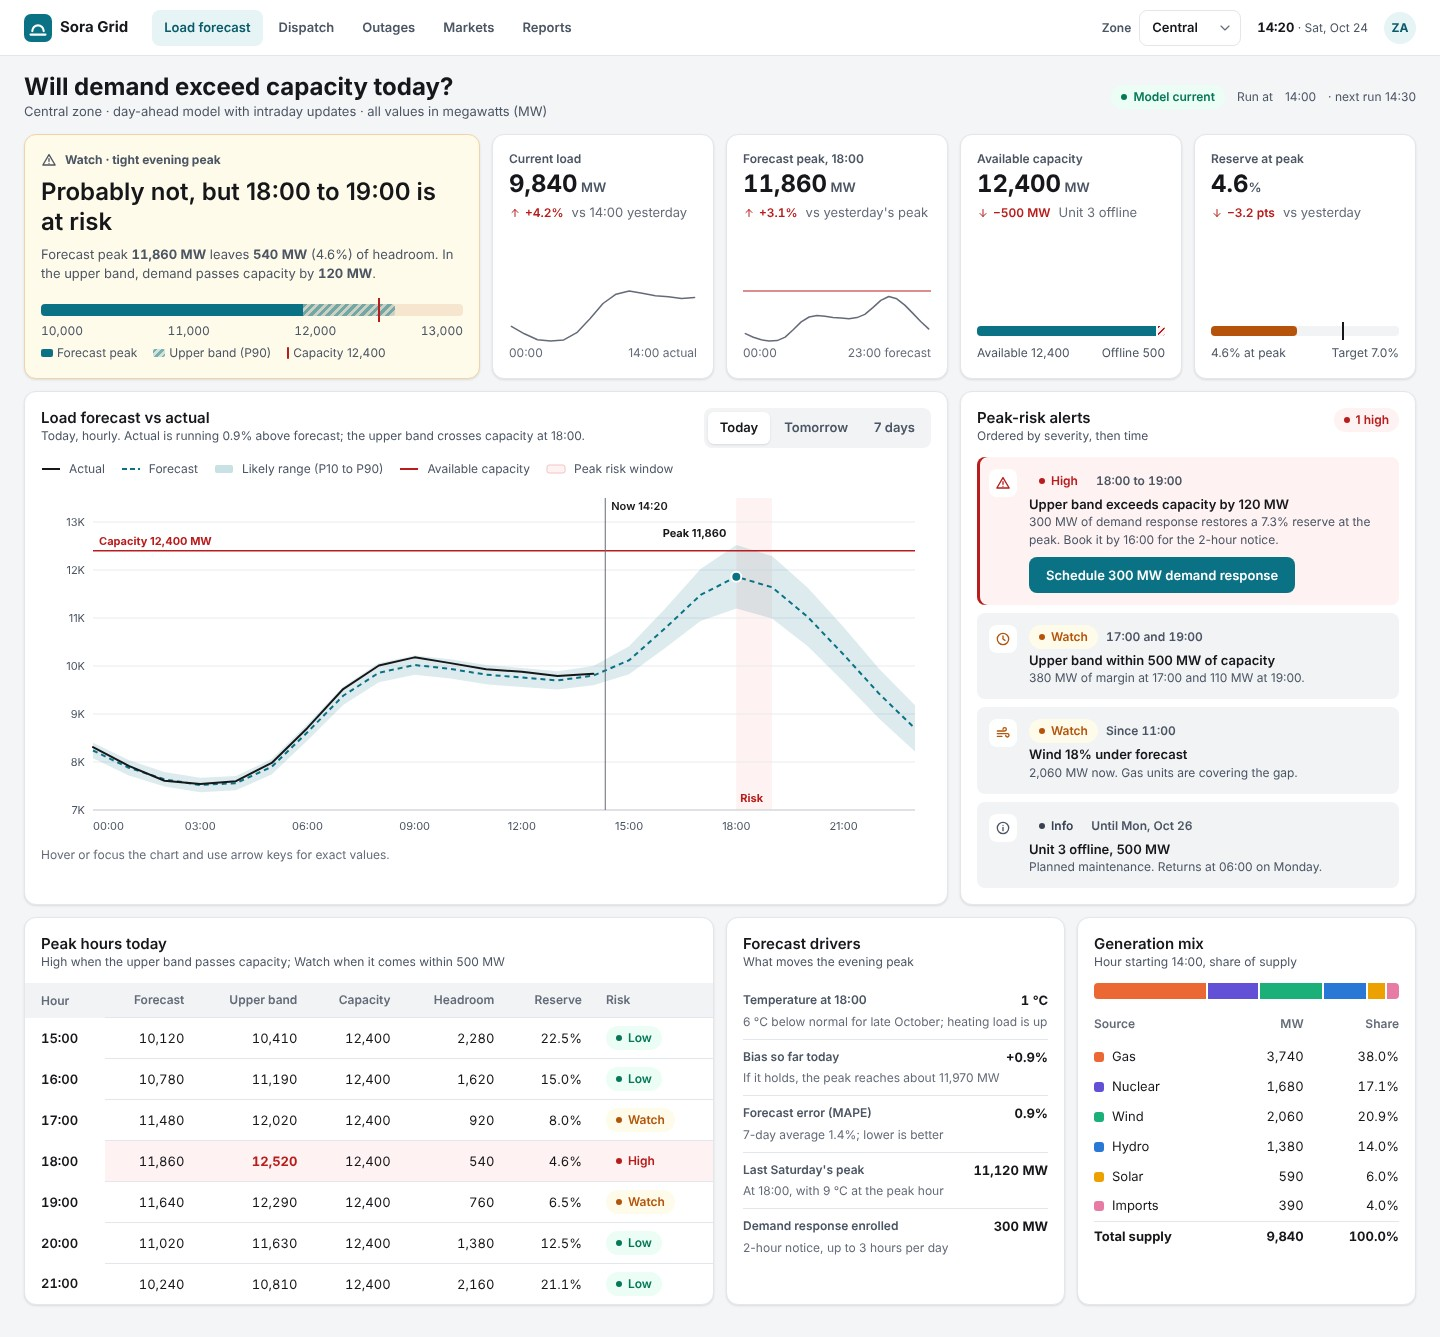
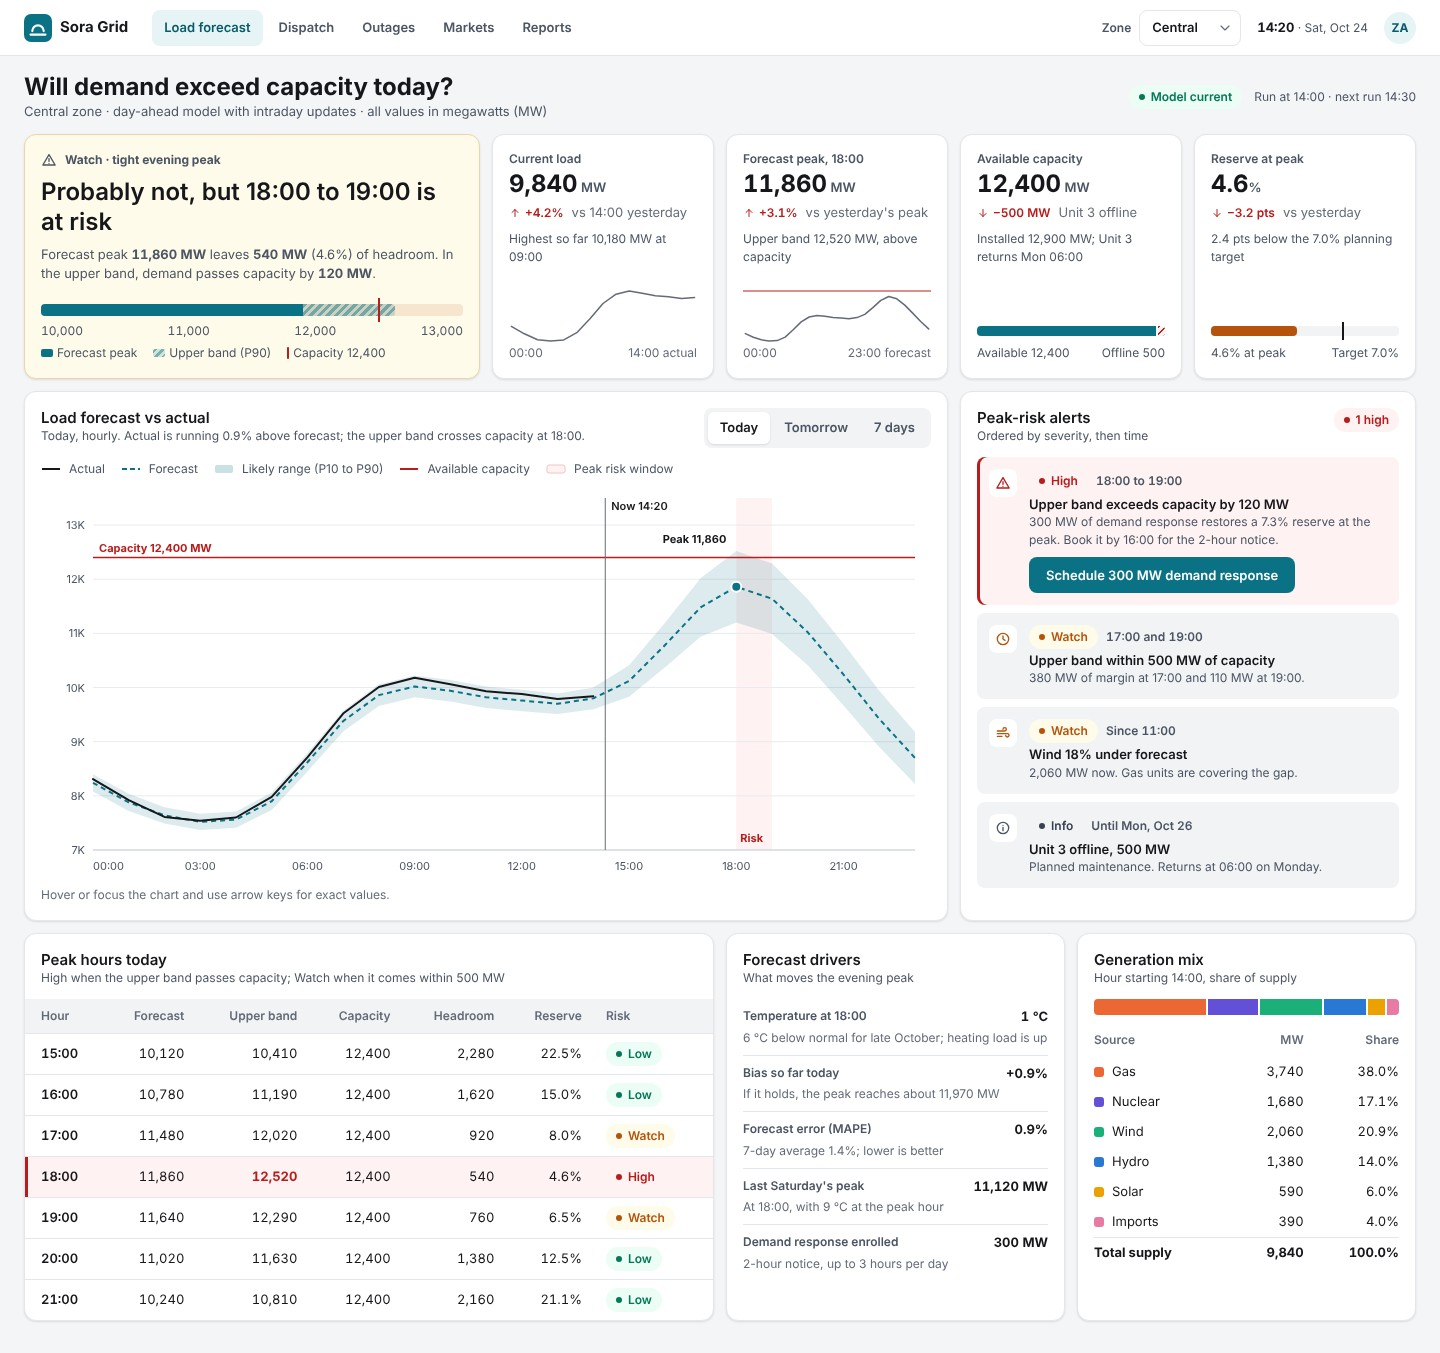
WIP: reference screens checkpoint
Claude-Session: https://claude.ai/code/session_018HZxTX6uw8LKZaqiiAUisJ

diff --git a/skills/productcraft/examples/dashboard-v14.html b/skills/productcraft/examples/dashboard-v14.html
@@ -2,7 +2,7 @@
 <!-- ProductCraft example: dashboard-v14 (energy grid load forecast, "Sora Grid", data-dense). Original Sora Labs example, MIT License.
      Demonstrates: SCR-01, SCR-02, LAY-01, LAY-05, LAY-08, LAY-14, TYP-02, TYP-09, COL-01, COL-06, COL-07, COL-10,
      CMP-10, CMP-11, CMP-15, CMP-17, CMP-18, CMP-19, CMP-23, CMP-26, FBK-18, NAV-03, BTN-01, BTN-05, COP-01, COP-08,
-     COP-10, ICO-04, ICO-10, ENG-07 -->
+     COP-10, ICO-10, ENG-07 -->
 <html lang="en">
 <head>
   <meta charset="utf-8">
@@ -111,7 +111,7 @@
     .spark path { fill: none; stroke: var(--text-3); stroke-width: 1.5; stroke-linejoin: round; stroke-linecap: round; }
     .spark .last { fill: var(--accent); stroke: var(--surface); stroke-width: 2; }
     .spark .ref { stroke: var(--c-capacity); stroke-width: 1; }
-    .kpi-note { font-size: var(--text-xs); color: var(--text-2); }
+    .kpi-note { margin-top: var(--space-1); font-size: var(--text-xs); color: var(--text-2); }
 
     /* Forecast chart (CMP-18) */
     .chart-card { grid-column: span 8; }
@@ -119,7 +119,7 @@
     .legend li { display: inline-flex; align-items: center; gap: var(--space-2); }
     .legend li[hidden] { display: none; }
     .legend svg { width: 20px; height: 10px; }
-    .chart { position: relative; height: 352px; outline-offset: 4px; border-radius: var(--radius-sm); }
+    .chart { position: relative; height: 392px; outline-offset: 4px; border-radius: var(--radius-sm); }
     .chart svg { display: block; width: 100%; height: 100%; overflow: visible; }
     .chart text { font-size: 11px; fill: var(--text-2); }
     .chart .grid { stroke: var(--c-grid); stroke-width: 1; }
@@ -175,8 +175,9 @@
     th:first-child, td:first-child { padding-left: var(--space-4); }
     th:last-child, td:last-child { padding-right: var(--space-4); }
     .t-right { text-align: right; }
-    tr.is-peak td { background: var(--danger-soft); }
-    tr.is-peak td:first-child { box-shadow: inset 3px 0 0 var(--danger); }
+    tbody th { padding: var(--space-2) var(--space-3) var(--space-2) var(--space-4); border-top: 1px solid var(--border); background: transparent; color: var(--text); font-size: var(--text-sm); }
+    tr.is-peak > * { background: var(--danger-soft); }
+    tr.is-peak > :first-child { box-shadow: inset 3px 0 0 var(--danger); }
     .neg { color: var(--danger); font-weight: 700; }
     .table-wrap { overflow-x: auto; }
 
@@ -258,7 +259,7 @@
       <h1>Will demand exceed capacity today?</h1>
       <p>Central zone · day-ahead model with intraday updates · all values in megawatts (MW)</p>
     </div>
-    <p class="run"><span class="pill pill-success">Model current</span> Run at <time datetime="2026-10-24T14:00">14:00</time> · next run 14:30</p>
+    <p class="run"><span class="pill pill-success">Model current</span><span>Run at <time datetime="2026-10-24T14:00">14:00</time> · next run 14:30</span></p>
   </div>
 
   <!-- The answer first, as the one leading tile: verdict, consequence and a peak-vs-capacity gauge (SCR-01, COP-10) -->
@@ -483,10 +484,10 @@
   const up = '<svg viewBox="0 0 24 24" fill="none" stroke="currentColor" stroke-width="2" stroke-linecap="round" stroke-linejoin="round" aria-hidden="true"><path d="M12 19V5M6 11l6-6 6 6"/></svg>';
   const down = '<svg viewBox="0 0 24 24" fill="none" stroke="currentColor" stroke-width="2" stroke-linecap="round" stroke-linejoin="round" aria-hidden="true"><path d="M12 5v14M6 13l6 6 6-6"/></svg>';
   const kpis = [
-    { el: "kpi-load", label: "Current load", value: 9840, unit: "MW", delta: "+4.2%", dir: "up", tone: "bad", period: "vs 14:00 yesterday", spark: today.actual, sparkEnd: "14:00 actual" },
-    { el: "kpi-peak", label: "Forecast peak, 18:00", value: 11860, unit: "MW", delta: "+3.1%", dir: "up", tone: "bad", period: "vs yesterday's peak", spark: today.forecast, ref: 12400, sparkEnd: "23:00 forecast" },
-    { el: "kpi-cap", label: "Available capacity", value: 12400, unit: "MW", delta: "−500 MW", dir: "down", tone: "bad", period: "Unit 3 offline", visual: `<div class="mini-bar" role="img" aria-label="12,400 MW available, 500 MW offline, of 12,900 MW installed"><span style="flex: 12400 1 0"></span><span style="flex: 500 1 0"></span></div><p class="mini-keys"><span>Available 12,400</span><span>Offline 500</span></p>` },
-    { el: "kpi-reserve", label: "Reserve at peak", value: 4.6, unit: "%", delta: "−3.2 pts", dir: "down", tone: "bad", period: "vs yesterday", visual: `<div class="bullet" role="img" aria-label="Reserve 4.6% against a 7.0% target on a 0 to 10% scale"><span class="fill" style="width: 46%"></span><span class="target" style="left: 70%"></span></div><p class="mini-keys"><span>4.6% at peak</span><span>Target 7.0%</span></p>` }
+    { el: "kpi-load", label: "Current load", value: 9840, unit: "MW", delta: "+4.2%", dir: "up", tone: "bad", period: "vs 14:00 yesterday", spark: today.actual, sparkEnd: "14:00 actual", note: "Highest so far 10,180 MW at 09:00" },
+    { el: "kpi-peak", label: "Forecast peak, 18:00", value: 11860, unit: "MW", delta: "+3.1%", dir: "up", tone: "bad", period: "vs yesterday's peak", spark: today.forecast, ref: 12400, sparkEnd: "23:00 forecast", note: "Upper band 12,520 MW, above capacity" },
+    { el: "kpi-cap", label: "Available capacity", value: 12400, unit: "MW", delta: "−500 MW", dir: "down", tone: "bad", period: "Unit 3 offline", note: "Installed 12,900 MW; Unit 3 returns Mon 06:00", visual: `<div class="mini-bar" role="img" aria-label="12,400 MW available, 500 MW offline, of 12,900 MW installed"><span style="flex: 12400 1 0"></span><span style="flex: 500 1 0"></span></div><p class="mini-keys"><span>Available 12,400</span><span>Offline 500</span></p>` },
+    { el: "kpi-reserve", label: "Reserve at peak", value: 4.6, unit: "%", delta: "−3.2 pts", dir: "down", tone: "bad", period: "vs yesterday", note: "2.4 pts below the 7.0% planning target", visual: `<div class="bullet" role="img" aria-label="Reserve 4.6% against a 7.0% target on a 0 to 10% scale"><span class="fill" style="width: 46%"></span><span class="target" style="left: 70%"></span></div><p class="mini-keys"><span>4.6% at peak</span><span>Target 7.0%</span></p>` }
   ];
   function sparkPath(values, w, h, ref) {
     const all = ref ? [...values, ref] : values;
@@ -507,6 +508,7 @@
       <h2 class="kpi-label">${k.label}</h2>
       <p class="kpi-value num">${value}<span class="unit">${k.unit === "%" ? "%" : " " + k.unit}</span></p>
       <p class="kpi-foot"><span class="delta delta-${k.tone}">${k.dir === "up" ? up : down}<span class="num">${k.delta}</span></span><span class="subtle">${k.period}</span></p>
+      <p class="kpi-note">${k.note}</p>
       <div class="kpi-visual">${spark || k.visual}</div>`;
   });
 
@@ -640,7 +642,7 @@
     const [cls, word] = riskOf(hi, cap);
     const tr = document.createElement("tr");
     if (word === "High") tr.className = "is-peak";
-    tr.innerHTML = `<th scope="row" class="num" style="background:transparent;color:var(--text);font-size:var(--text-sm)">${hours[h]}</th>
+    tr.innerHTML = `<th scope="row" class="num">${hours[h]}</th>
       <td class="t-right num">${mw.format(f)}</td>
       <td class="t-right num ${hi > cap ? "neg" : ""}">${mw.format(hi)}</td>
       <td class="t-right num">${mw.format(cap)}</td>

diff --git a/skills/productcraft/examples/landing.html b/skills/productcraft/examples/landing.html
@@ -243,11 +243,23 @@
     @media (max-width: 760px) {
       .sheet { padding: var(--space-5) var(--space-4); }
       .variants.cols-2 { grid-template-columns: 1fr; }
-      .lp-nav ul { display: none; }
-      .split, .quote-pair, .stats, .footer-groups { grid-template-columns: 1fr; }
+      .lp-nav ul, .nav-actions .btn-ghost { display: none; }
+      .lp-nav { padding: 0 var(--space-4); }
+      .sheet-header { flex-direction: column; align-items: flex-start; }
+      .variant-stage { padding: var(--space-3); }
+      .split, .quote-pair, .stats, .footer-groups { grid-template-columns: minmax(0, 1fr); }
       .bento > * { grid-column: 1 / -1; grid-row: auto; }
-      .pv-kpis { grid-template-columns: repeat(2, minmax(0, 1fr)); }
+      .hero { padding: var(--space-5) var(--space-4) 0; }
       .hero-title { font-size: var(--text-2xl); }
+      .hero-lede, .split-lede { font-size: var(--text-md); }
+      .hero-actions, .signup-row, .cta-actions, .proof-foot, .plan-foot, .legal, .footer-brand { flex-wrap: wrap; }
+      .signup-row .btn { width: 100%; }
+      .pv-kpis { grid-template-columns: repeat(2, minmax(0, 1fr)); }
+      .pv-range, .pv-cards { display: none; }
+      .split { padding: var(--space-5) var(--space-4); gap: var(--space-5); }
+      .split-title { font-size: var(--text-xl); }
+      .lp-section { padding: var(--space-4); }
+      .stats > div, .stats > div:first-child { padding-left: 0; border-left: 0; }
     }
   </style>
 </head>

diff --git a/skills/productcraft/examples/dashboard-v15.html b/skills/productcraft/examples/dashboard-v15.html
@@ -1,7 +1,7 @@
 <!doctype html>
 <!-- ProductCraft example: dashboard-v15 (accounts payable master-detail, "Sora Books"). Original Sora Labs example, MIT License.
-     Demonstrates: SCR-01, SCR-02, SCR-23, LAY-01, LAY-02, LAY-05, LAY-07, LAY-08, TYP-09, COL-01, COL-06, COL-07,
-     CMP-10, CMP-15, CMP-16, CMP-17, CMP-18, CMP-19, CMP-20, CMP-23, CMP-26, CMP-32, NAV-02, NAV-03, NAV-08, NAV-15,
+     Demonstrates: SCR-01, SCR-02, SCR-23, LAY-01, LAY-02, LAY-05, LAY-07, LAY-08, TYP-09, COL-01, COL-06, COL-07, COL-10,
+     CMP-15, CMP-16, CMP-18, CMP-19, CMP-20, CMP-23, CMP-26, CMP-32, NAV-02, NAV-03, NAV-08, NAV-15,
      BTN-01, BTN-14, FBK-05, FBK-18, FRM-01, ICO-04, COP-01, COP-08, ENG-06, ENG-07 -->
 <html lang="en">
 <head>
@@ -49,7 +49,7 @@
     .page-head h1 { margin-bottom: var(--space-1); }
     .page-head .muted strong { color: var(--text); }
 
-    /* Summary band: three stats and the cash-out chart in one tinted strip (LAY-07, CMP-17) */
+    /* Summary band: three stats and the cash-out chart in one tinted strip (LAY-07) */
     .band { display: grid; grid-template-columns: repeat(3, minmax(0, 1fr)) minmax(0, 1.9fr); background: var(--surface); border: 1px solid var(--border); border-radius: var(--radius-lg); box-shadow: var(--shadow-sm); }
     .band > * { padding: var(--space-4) var(--space-5); }
     .band > * + * { border-left: 1px solid var(--border); }

diff --git a/skills/productcraft/examples/search.html b/skills/productcraft/examples/search.html
@@ -261,8 +261,22 @@
       .sheet { padding: var(--space-5) var(--space-4); }
       .variant.c12, .variant.c7, .variant.c5 { grid-column: 1 / -1; }
       .serp, .zero, .app { grid-template-columns: 1fr; }
-      .facets, .app-side, .docs-nav, .docs-top nav { display: none; }
+      .sheet-header { flex-direction: column; align-items: flex-start; }
+      .variant-stage { padding: var(--space-3); }
+      .facets, .app-side, .docs-nav, .docs-top nav, .shop-top .brand, .help-top .brand, .cmdk-opt .lbl small, .cmdk-foot span:not(.count), .app-kpis { display: none; }
       .docs { grid-template-columns: 1fr; }
+      .serp, .zero { padding: var(--space-4); gap: var(--space-5); }
+      .shop-top, .help-top { padding: var(--space-3) var(--space-4); flex-wrap: wrap; height: auto; }
+      .res-head { flex-wrap: wrap; }
+      .result { grid-template-columns: 72px minmax(0, 1fr); }
+      .result .price { grid-column: 2; text-align: left; }
+      .thumb { width: 72px; height: 54px; }
+      .thumb svg { width: 66px; height: 50px; }
+      .zero-main { grid-template-columns: minmax(0, 1fr); }
+      .docs-top { padding: 0 var(--space-3); gap: var(--space-3); }
+      .shop-top .field, .help-top .field { flex: 1 1 100%; min-width: 0; max-width: none; }
+      .phone { width: 100%; max-width: 360px; }
+      .cmdk-trigger { min-width: 0; }
     }
   </style>
 </head>

diff --git a/skills/productcraft/examples/dashboard-v13.html b/skills/productcraft/examples/dashboard-v13.html
@@ -271,7 +271,7 @@
     <div>
       <div class="title-row">
         <h1>Dispatch board</h1>
-        <span class="live">Live · updated <time datetime="2026-10-24T14:20">14:20</time></span>
+        <span class="live"><span>Live · updated <time datetime="2026-10-24T14:20">14:20</time></span></span>
       </div>
       <p class="muted">Saturday, Oct 24. 7 of 70 open deliveries are late; a lane closure on Harbor bridge accounts for 3 of them.</p>
     </div>
@@ -586,7 +586,7 @@
     if (id) map.dataset.route = id; else delete map.dataset.route;
   });
 
-  // Shipments rendered from raw minutes and formatted at render (ENG-07, COP-08)
+  // Shipments rendered from raw minutes and formatted at render (ENG-07)
   const shipments = [
     { id: "#SL-4096", to: "Northline Studio", route: "C", driver: "Mateo Silva", from: 660, until: 780, eta: 930 },
     { id: "#SL-4102", to: "Hana Kim", route: "A", driver: "Owen Clarke", from: 720, until: 840, eta: 910 },

diff --git a/skills/productcraft/examples/dashboard-v16.html b/skills/productcraft/examples/dashboard-v16.html
@@ -3,7 +3,7 @@
      Fictional patients and reference ranges for interface demonstration only; not medical advice.
      Demonstrates: SCR-01, SCR-02, LAY-01, LAY-02, LAY-03, LAY-05, LAY-07, LAY-08, TYP-07, TYP-09, COL-01, COL-02,
      COL-06, COL-07, CMP-10, CMP-11, CMP-15, CMP-16, CMP-18, CMP-20, CMP-23, CMP-26, CMP-31, FBK-18, NAV-03, BTN-01,
-     COP-10, ICO-03, ICO-04, STY-11, ENG-07 -->
+     COP-10, ICO-03, STY-11, ENG-07 -->
 <html lang="en">
 <head>
   <meta charset="utf-8">
